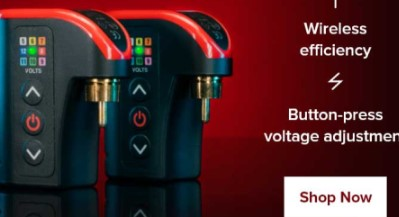
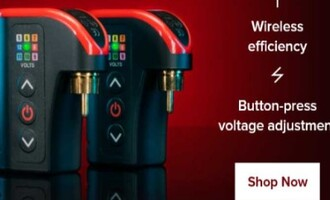
Added the images and styled the texts

diff --git a/index.html b/index.html
@@ -13,71 +13,70 @@
     <div class="container">
       <div class="grid-wrapper">
         <div class="large-item">
-          <img
-            class="grid-image"
-            src="https://via.placeholder.com/660x410"
-            alt="Large"
-          />
+          <img class="grid-image" src="/img/banner.png" alt="Large" />
         </div>
         <div>
-          <img
-            class="grid-image"
-            src="https://via.placeholder.com/330x200"
-            alt="Small 1"
-          />
+          <img class="grid-image" src="/img/product1.jpg" alt="Small 1" />
         </div>
         <div>
-          <img
-            class="grid-image"
-            src="https://via.placeholder.com/330x200"
-            alt="Small 2"
-          />
+          <img class="grid-image" src="/img/product2.jpg" alt="Small 2" />
         </div>
       </div>
       <div class="flex-wrapper">
         <div class="flex-block">
           <p class="heading">
-            Tattoo <br />
-            Supplies
+            <b
+              >Tattoo <br />
+              Supplies</b
+            >
           </p>
-          <img src="https://via.placeholder.com/150" alt="product image" />
+
+          <img src="/img/shop-items-1.png" alt="product image" />
           <button class="cta-btn">Shop Now</button>
         </div>
         <div class="flex-block">
           <p class="heading">
-            Body <br />
-            Jewelry
+            <b
+              >Body <br />
+              Jewelry</b
+            >
           </p>
-          <img src="https://via.placeholder.com/150" alt="product image" />
+          <img src="/img/shop-items-2.png" alt="product image" />
           <button class="cta-btn">Shop Now</button>
         </div>
         <div class="flex-block">
           <p class="heading">
-            Piercing<br />
-            Supplies
+            <b
+              >Piercing<br />
+              Supplies</b
+            >
           </p>
-          <img src="https://via.placeholder.com/150" alt="product image" />
+          <img src="/img/shop-items-3.png" alt="product image" />
           <button class="cta-btn">Shop Now</button>
         </div>
         <div class="flex-block">
           <p class="heading">
-            Medical<br />
-            Supplies
+            <b>
+              Medical<br />
+              Supplies</b
+            >
           </p>
-          <img src="https://via.placeholder.com/150" alt="product image" />
+          <img src="/img/shop-items-4.png" alt="product image" />
           <button class="cta-btn">Shop Now</button>
         </div>
         <div class="flex-block">
           <p class="heading">
-            Permanent<br />
-            Make Up
+            <b
+              >Permanent<br />
+              Make Up</b
+            >
           </p>
-          <img src="https://via.placeholder.com/150" alt="product image" />
+          <img src="/img/shop-items-5.png" alt="product image" />
           <button class="cta-btn">Shop Now</button>
         </div>
       </div>
       <div class="product-section">
-        <h2>NEW ARRIVALS</h2>
+        <h2>NEW PRODUCTS</h2>
         <div class="product-carousel">
           <img
             src="https://static.thenounproject.com/png/627785-200.png"
@@ -87,28 +86,28 @@
           />
 
           <div class="product-card">
-            <img src="https://via.placeholder.com/150" alt="Product Image" />
-            <p>$449.99</p>
-            <p>Rook Quill Rotary Tattoo Machine - Copper</p>
+            <img src="/img/product-card-1.png" alt="Product Image" />
+            <p class="carousel-item-price">$449.99</p>
+            <p class="p-card-text">Rook Quill Rotary Tattoo Machine - Copper</p>
           </div>
           <div class="product-card">
-            <img src="https://via.placeholder.com/150" alt="Product Image" />
-            <p>$449.99</p>
-            <p>Rook Quill Rotary Tattoo Machine - Copper</p>
+            <img src="/img/product-card-2.png" alt="Product Image" />
+            <p class="carousel-item-price">$449.99</p>
+            <p>Rook Quill Rotary Tattoo Machine - Blue</p>
           </div>
           <div class="product-card">
-            <img src="https://via.placeholder.com/150" alt="Product Image" />
-            <p>$1,199.99</p>
+            <img src="/img/product-card-3.png" alt="Product Image" />
+            <p class="carousel-item-price">$1,199.99</p>
             <p>Pre-Order - Inkjecta Flite X1 Wireless Tattoo Machine</p>
           </div>
           <div class="product-card">
-            <img src="https://via.placeholder.com/150" alt="Product Image" />
-            <p>$1,199.99</p>
+            <img src="/img/product-card-4.png" alt="Product Image" />
+            <p class="carousel-item-price">$1,199.99</p>
             <p>Pre-Order - Inkjecta Flite X1 Wireless Tattoo Machine</p>
           </div>
           <div class="product-card">
-            <img src="https://via.placeholder.com/150" alt="Product Image" />
-            <p>$1,199.99</p>
+            <img src="/img/product-card-4.png" alt="Product Image" />
+            <p class="carousel-item-price">$1,199.99</p>
             <p>Pre-Order - Inkjecta Flite X1 Wireless Tattoo Machine</p>
           </div>
 

diff --git a/styles.css b/styles.css
@@ -29,9 +29,11 @@
 }
 .heading {
   text-align: center;
+  font-family: "Lato", sans-serif;
+  color: #7b7b7b;
 }
 .cta-btn {
-  background-color: #4caf50;
+  background-color: rgb(64 126 201);
   color: white;
   border: none;
   padding: 10px 18px;
@@ -43,6 +45,7 @@
   gap: 20px;
   align-items: center;
   padding: 20px;
+  font-family: "Lato", sans-serif;
 }
 .product-carousel {
   display: flex;
@@ -61,6 +64,11 @@
   padding: 10px;
   background-color: #f9f9f9;
 }
+.carousel-item-price {
+  color: #6496d3;
+  font-weight: bold;
+}
+
 .indicator {
   height: 10px;
   width: 10px;
